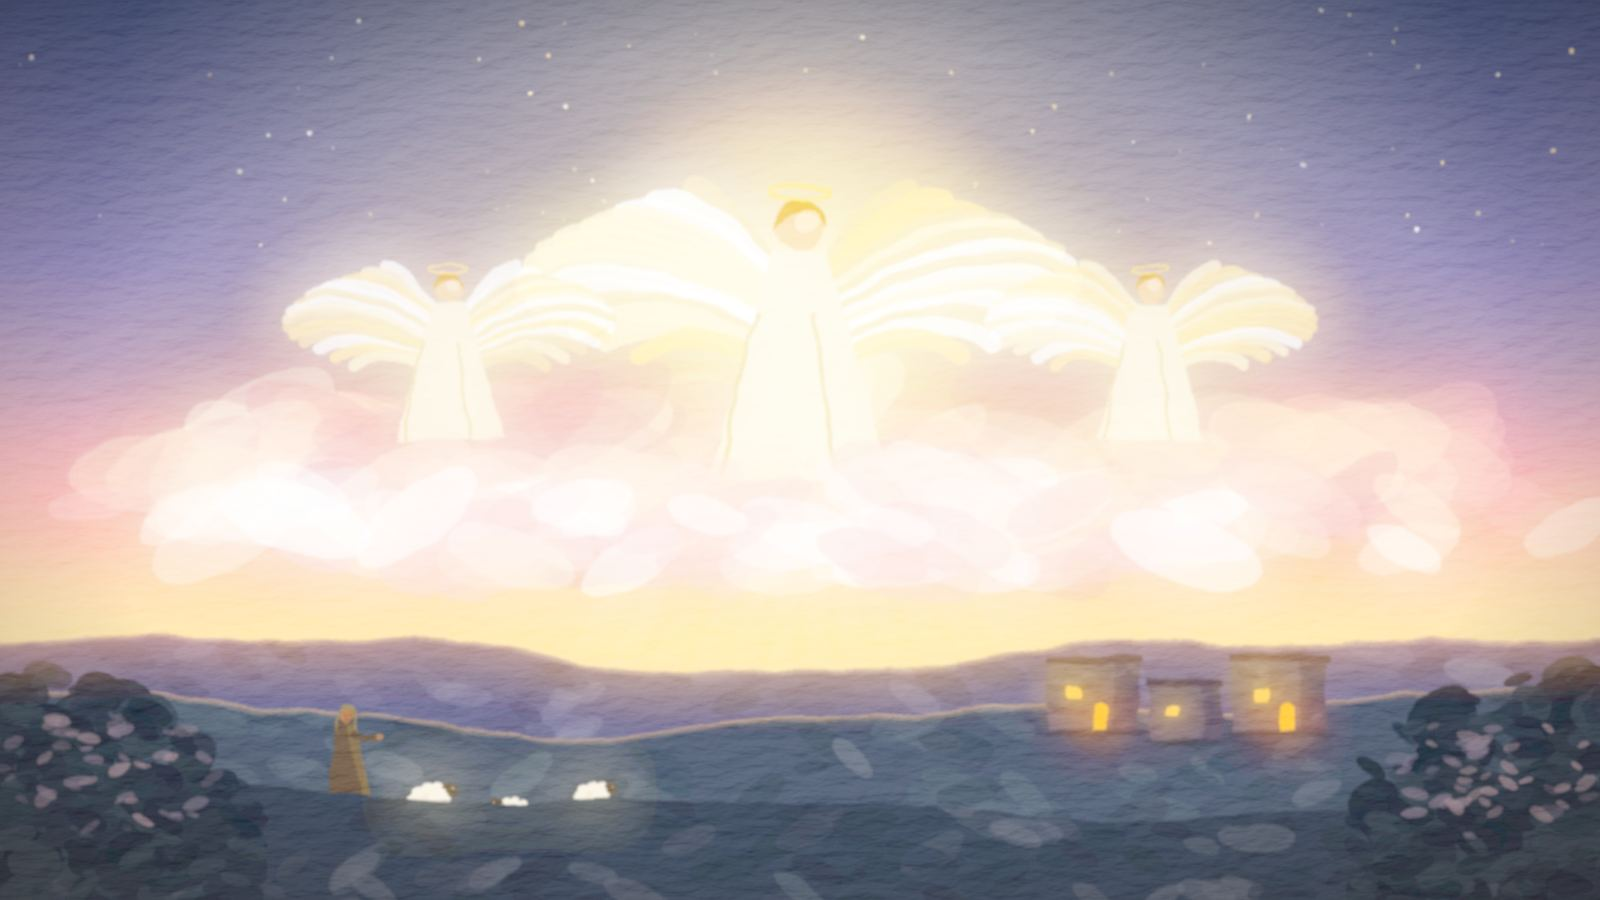
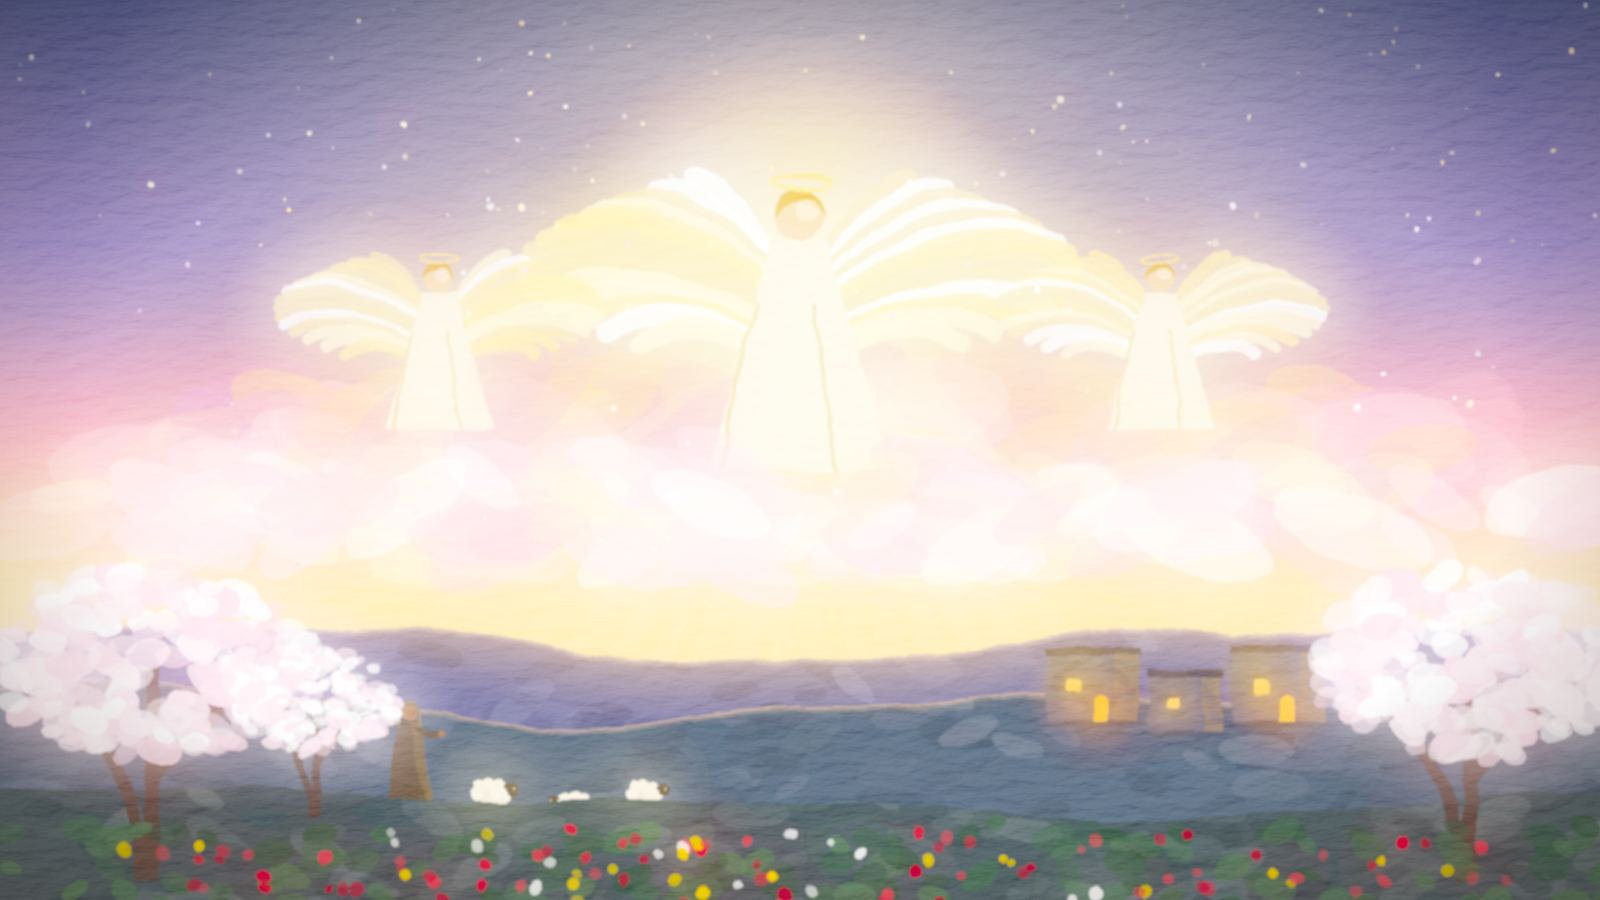
Seasonal backgrounds round 2 from Melissa's notes; Advent star and candles move gently in Lively pictures
Claude-Session: https://claude.ai/code/session_01Sqn2qeG7eJCNMRkH2SjbWb

diff --git a/js/art.js b/js/art.js
@@ -1218,9 +1218,18 @@ export function seasonOf(now = new Date()) {
   return "advent";
 }
 export const seasonSrc = (k = seasonOf()) => `img/season/${k}.jpg`;
+// Gentle light that moves, only with Lively pictures and never when motion is turned down:
+// at Advent the star twinkles, the candles flicker and the baby Jesus glows. [x, y, size, kind] on the 1600 x 900 painting.
+const SEASON_FX = {
+  advent: [[800, 129, 70, "tw"], [491, 796, 34, "fl"], [635, 769, 36, "fl"], [965, 769, 36, "fl"], [1109, 796, 34, "fl"], [800, 734, 42, "fl"], [827, 626, 90, "gl"]],
+};
+const fxHtml = (key) => (SEASON_FX[key] || []).map(([x, y, r, k], i) => `<circle class="sfx sfx-${k}" cx="${x}" cy="${y}" r="${r}" fill="url(#sfxg)" style="--sd:${(i * .37).toFixed(2)}s"/>`).join("");
 export function seasonScene({ height = 170, key = seasonOf() } = {}) {
+  // The painting and its moving lights share one 1600 x 900 frame, cropped the same way.
   return `<svg class="scene painting-scene season-scene" viewBox="0 0 360 ${height}" preserveAspectRatio="xMidYMid slice" role="img" aria-label="${SEASONS[key][0]}">
-    <rect width="360" height="${height}" fill="#3a2e22"/><image href="${seasonSrc(key)}" width="360" height="${height}" preserveAspectRatio="xMidYMid slice"/></svg>`;
+    <rect width="360" height="${height}" fill="#3a2e22"/><svg viewBox="0 0 1600 900" width="360" height="${height}" preserveAspectRatio="xMidYMid slice">
+    <defs><radialGradient id="sfxg"><stop offset="0" stop-color="#fffbe6" stop-opacity=".95"/><stop offset=".35" stop-color="#ffe7a0" stop-opacity=".5"/><stop offset="1" stop-color="#ffd070" stop-opacity="0"/></radialGradient></defs>
+    <image href="${seasonSrc(key)}" width="1600" height="900"/>${fxHtml(key)}</svg></svg>`;
 }
 export function seasonStrip(key = seasonOf()) {
   const [title, y] = SEASONS[key];

diff --git a/sw.js b/sw.js
@@ -1,5 +1,5 @@
 // Caches the app itself so it opens offline. Scripture text is not cached here.
-const VERSION = "bible-study-shell-v214";
+const VERSION = "bible-study-shell-v215";
 const SHELL = ["./", "index.html", "styles.css", "js/app.js", "js/books.js", "js/store.js", "js/text.js", "js/paths.js", "js/speech.js", "js/trivia.js", "js/trivia-bank.js", "js/trivia-bank2.js", "js/trivia-bank3.js", "js/art.js", "js/storybook.js", "js/notes.js", "js/notes-more.js", "js/chapters/make.js", "js/chapters/deeper-ot.js", "js/chapters/deeper-nt.js", ...["gen", "exo", "lev", "num", "deu", "jos", "jdg", "rut", "1sa", "2sa", "1ki", "2ki", "1ch", "2ch", "ezr", "neh", "est", "job", "psa", "pro", "ecc", "sng", "isa", "jer", "lam", "ezk", "dan", "hos", "jol", "amo", "oba", "jon", "mic", "nam", "hab", "zep", "hag", "mal", "zec", "mrk", "mat", "luk", "jhn", "act", "rom", "1co", "2co", "gal", "eph", "php", "col", "1th", "2th", "1ti", "2ti", "tit", "phm", "heb", "jas", "1pe", "2pe", "1jn", "2jn", "3jn", "jud", "rev"].map((b) => `js/chapters/${b}.js`), "js/history.js", "js/glossary.js", "js/intros.js", "js/topics.js", "js/outlines.js", "js/stickers.js", "js/bookstats.js", "js/daily.js", "js/guide.js", "js/whatsnew.js", "js/buddyguide.js", "js/buddygrow.js", "js/buddy.js", "js/game.js", "js/auth.js", "js/config.js", "js/vendor/supabase.js",
   "manifest.webmanifest", "icons/icon.svg", "icons/icon-180.png", "icons/icon-192.png", "icons/icon-512.png", "icons/icon-maskable-512.png"];
 

diff --git a/styles.css b/styles.css
@@ -2503,6 +2503,15 @@ html { background: var(--page); }
 :root[data-style="seasons"] .cl-cross rect { fill: var(--page); }
 :root[data-style="seasons"] .pc-featured, :root[data-style="seasons"] .notes-card { border-color: var(--gold); }
 .season-scene image, .season-strip image { filter: none; }
+.sfx { opacity: 0; transform-box: fill-box; transform-origin: center; }
+@media (prefers-reduced-motion: no-preference) {
+  :root[data-graphics="full"] .sfx-tw { animation: sfx-tw 3.4s ease-in-out var(--sd) infinite; }
+  :root[data-graphics="full"] .sfx-fl { animation: sfx-fl 1.7s ease-in-out var(--sd) infinite alternate; }
+  :root[data-graphics="full"] .sfx-gl { animation: sfx-gl 4s ease-in-out infinite; }
+}
+@keyframes sfx-tw { 0%, 100% { opacity: .15; transform: scale(.7); } 45% { opacity: .95; transform: scale(1.15); } 60% { opacity: .5; transform: scale(.9); } }
+@keyframes sfx-fl { 0% { opacity: .25; transform: scale(.85, .95); } 40% { opacity: .6; transform: scale(1.05, 1.1); } 100% { opacity: .35; transform: scale(.95, 1); } }
+@keyframes sfx-gl { 0%, 100% { opacity: .2; } 50% { opacity: .65; } }
 @media (prefers-color-scheme: dark) {
   :root[data-style="seasons"]:not([data-theme="light"]) { --bg: #fffaf2; --surface: #ffffff; --text: #2b241c; --muted: #67615a; --line: #eadfcd; color-scheme: light; }
 }

diff --git a/STATUS.md b/STATUS.md
@@ -1,8 +1,8 @@
 # Family Bible App: status
 
 <!-- The first two lines below are updated automatically every time a new version is published. -->
-**Last updated:** Wed Nov 25, 2026, 10:21 AM Central
-**Current version:** v214 (live at bible.breakoutroom.net; open apps update on their own)
+**Last updated:** Wed Nov 25, 2026, 10:26 AM Central
+**Current version:** v215 (live at bible.breakoutroom.net; open apps update on their own)
 
 Release target: **Friday, December 4, 2026**, as a Christmas gift. Everything is finished by Thursday, December 3, so release day is free. All times are Central.
 
@@ -10,6 +10,7 @@ This page is updated with every publish and at each daily check-in (9:00 AM, 1:3
 
 ## Since last update
 
+- Wed Nov 25, 10:35 AM: Seasonal backgrounds round 2, from Melissa's notes: New Year now shows dawn over Jerusalem lit by the temple's golden lampstands and torches (there were no fireworks in Bible times); February is prettier, with almond trees in blossom and red anemones; April has three crosses with the middle one larger and shining; May mixes olive, fig, cypress, almond and pomegranate; the Sea of Galilee town climbs the hill like the old Tiberias painting; Learning shows a scribe writing a scroll, with birds past the window; Psalm 23 has the Good Shepherd leading the flock and more detail; Advent is richer, with the ox, donkey and sheep, and in Lively pictures the star twinkles, the candles flicker and the baby Jesus softly glows (all still when motion is turned down). Handwriting and drawing inside typed notes is approved and planned for Fri Nov 27.
 - Wed Nov 25, 10:45 AM: Play-test of Bible Spin and the Quick check on a small phone and an iPad, in the kids' and Classic looks. Fixed: on short phones (iPhone SE, mini) the fourth answer and the helps were below the edge, and now everything fits. The Quick check now marks answers plainly in every look (green ✓ and red ✗), says the right answer in words (most explanations were only a verse reference), scrolls the Next button into view, starts on the question instead of the Close button, and ends with a "To read again" list of missed questions, each with a tap to read the verse. A solo game with no jewels now ends with "Good try! Every game you learn more." instead of "You won 0 of 7 jewels." All game tests pass.
 - Wed Nov 25, 10:15 AM: The opt-in "Seasonal changes" look is built, two days early. 13 warm, glowing painted backgrounds follow the year (New Year's dawn, winter sunrise, angels, March rain and rainbow, Easter, April gardens, May flowers, June Bible-times life, the Sea of Galilee, scrolls by lamplight, Psalm 23, harvest and Advent), with Easter moving each year from Palm Sunday through the Sunday after. The header color matches each painting, and the words always sit on plain cream panels, so the readability check passes in light and dark. Nobody is ever switched into it, and anyone in it isn't asked to switch to a holiday look. The preview of all 13 is sent to Melissa (project folder: bible-study/seasonal-preview/). Release-plan dates moved up as Melissa asked.
 - Wed Nov 25, 9:40 AM: The Strong's concordance is now a full concordance and easier to read. Open any Hebrew or Greek word and tap "See every place in the Bible" for every verse where it's used, grouped by book with a book picker; tap one to go there. Root words in an entry ("from G756") can be tapped to see that word. Key words now start with the ones the chapter repeats most, with the rest behind "Show all", and very common words like "this" and "all" moved to Everyday words. A few dictionary entries whose word origin was split in two are joined back together. Confirmed the layout Melissa described: the Journal tab is a simple personal journal to add to (and can be locked); study notes live inside the Bible reading and study (the "My notes" square in Reference & resources and the note button under each chapter) and in the main Menu.
@@ -107,7 +108,7 @@ This page is updated with every publish and at each daily check-in (9:00 AM, 1:3
 ## Open questions
 
 - Seasonal changes: the preview of all 13 backgrounds is ready (sent Wed Nov 25). Melissa's notes by Mon Nov 30 keep Dec 4; sooner is welcome.
-- Apple Pencil: Scribble handwriting already works in notes and the Journal, and a Pencil tap highlights verses. A handwriting and sketch page for notes and the Journal (about a day) is offered for the B-75 pass; circling directly on the Bible text is harder because the text reflows.
+- Apple Pencil: Scribble handwriting already works in notes and the Journal, and a Pencil tap highlights verses. Handwriting and drawing pages are approved and planned for Fri Nov 27. Circling directly on the Bible text is harder because the text reflows.
 - B-75 will also read current App Store reviews of the comparison apps (YouVersion, Logos, Olive Tree, Blue Letter Bible, Bible Gateway, Dwell, Day One) as well as their features.
 - Reading margins: a simple "Page width" choice (narrow, medium, wide) is suggested instead of drag handles; planned for the B-75 navigation pass unless Melissa prefers otherwise.
 
@@ -136,11 +137,12 @@ This page is updated with every publish and at each daily check-in (9:00 AM, 1:3
 | Siblings' starter kit: code plus setup checklist (draft) | Done (Tue Nov 24) | Wed Dec 2 |
 | Seasonal changes look (opt-in only): 13 painted backgrounds built, with text easy to read on each | Done (Wed Nov 25, early) | Fri Nov 27 |
 | Seasonal changes: preview of all 13 backgrounds sent to Melissa for review | Done (Wed Nov 25, early) | Fri Nov 27 |
+| Handwriting and drawing inside typed notes and Journal entries: add a sketch box anywhere in a note and write or draw with Apple Pencil or a finger, mixed with the typed text; saved and backed up, and included when printing and sharing to Google Docs (Melissa approved Nov 25) | Not started | Fri Nov 27 |
 | Games and Quick check: play-test every game and fix all glitches | Not started | Thu Nov 26 (moved up from Fri Nov 27) |
 | Trivia polish: snappy, colorful and rewarding; short celebrations (confetti) for right answers, streaks and finishing a Quick check, skipped when motion is turned down | Not started | Fri Nov 27 (moved up from Sat Nov 28) |
 | Kids' storybook: tap surprises (a wave, a hop, a twinkle) and a pass to make sure every picture follows the storybook rules | Not started | Sat Nov 28 (moved up from Sun Nov 29) |
 | Buddy: cuter, friendlier and more adaptable; answers checked for accuracy and faithfulness to Scripture | Not started | Sun Nov 29 (moved up from Mon Nov 30) |
-| Seasonal changes: Melissa's review changes made | Waiting for her notes | Within a day of her notes (by Tue Dec 1; notes by Mon Nov 30) |
+| Seasonal changes: Melissa's review changes made | Round 2 done (Wed Nov 25); waiting for any more notes | Tue Dec 1 |
 | Quality review B-75: side-by-side comparison with top journaling apps, study Bibles, Bible apps, a full Strong's concordance and current scholarship (navigation, usability, features, accuracy of notes, history and word meanings, maps, saving and login, customizing, Buddy). For each area, what the best do that we don't, then fix it or explain why not | Not started | Tue Dec 1 (moved up from Wed Dec 2) |
 | Final quality ratings, based on the B-75 comparison rather than self-scoring, and fixes | In progress (first pass Wed Nov 25) | Wed Dec 2 (moved up from Thu Dec 3) |
 | Gift packet and starter kit finished | Not started | Wed Dec 2 (moved up from Thu Dec 3) |
